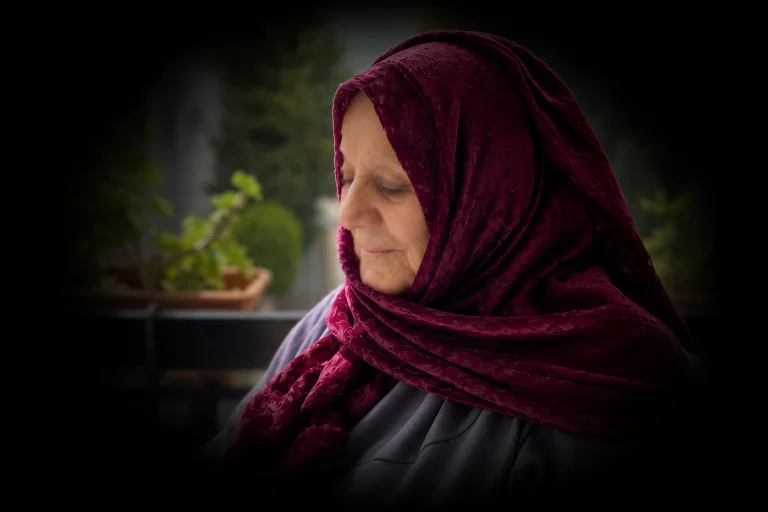
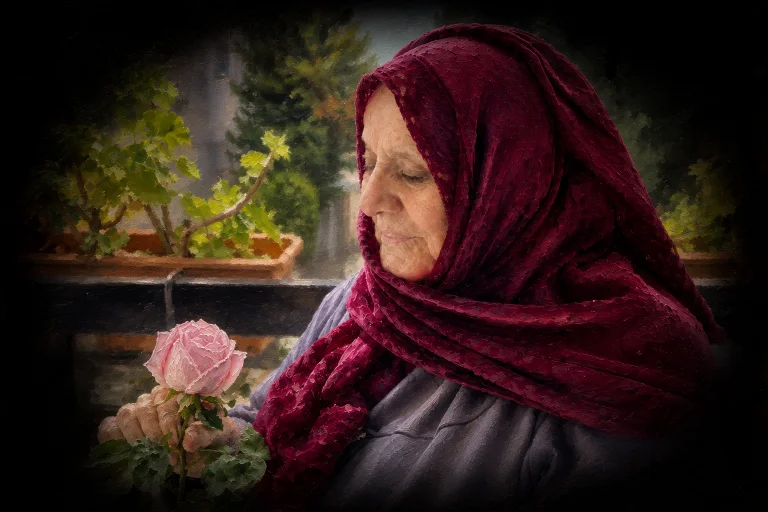
fix: preserve rose in memorial poem cover

diff --git a/src/content/poetry/014-amy-lqd-hana-wqtu-alrtha.md b/src/content/poetry/014-amy-lqd-hana-wqtu-alrtha.md
@@ -8,7 +8,7 @@ draft: false
 form: "البسيط"
 cover:
   src: "images/covers/014-amy-lqd-hana-wqtu-alrtha.webp"
-  alt: "صورة تذكارية مقرّبة لسيدة مسنّة بوشاح خمري وملامح ناعمة تحيط بها عتمة متدرجة"
+  alt: "لوحة تذكارية مقرّبة لسيدة مسنّة بوشاح خمري تمسك وردة وردية وتحيط بها عتمة متدرجة"
 ---
 
 1) الدمعُ أجمدُ في العينينِ مِنْ حَجَرِ....جفّتْ منابعهُ أمْ ضلَّ في السَفَرِ !
